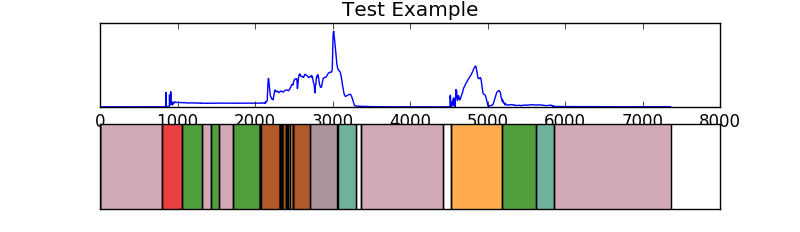
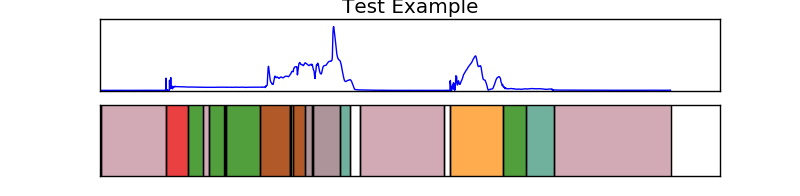
fixed the title

diff --git a/example.py b/example.py
@@ -36,6 +36,7 @@ if __name__ == "__main__":
         ax = plt.subplot(16, 1, 2 * ii + 1)
         plt.plot(training_data[ii].signal_bundle.signals[0])
         ax.get_yaxis().set_visible(False)
+        ax.get_xaxis().set_visible(False)
         plt.subplot(16, 1, 2 * ii + 2)
         plotResult_colorbars(training_data[ii].labels, range(len(training_data[ii].labels)))
 
@@ -45,7 +46,7 @@ if __name__ == "__main__":
     plt.title("Test Example")
     plt.plot(testing_data[0].signal_bundle.signals[0])
     ax.get_yaxis().set_visible(False)
-
+    ax.get_xaxis().set_visible(False)
     plt.subplot(2, 1, 2)
     plotResult_colorbars(labels, range(len(labels)))
 

diff --git a/README.md b/README.md
@@ -1,7 +1,8 @@
-# Recognizing Events and Signal Shapes in Time Domain Signals
+# Recognizing Events and Patterns in Signals
 This python library allows detecting patterns in *n-dimensional
-time domain signals*
-along the *time domain axis*.
+time domain signals*.
+
+Colors represent different labels over time.
 
 ![Training Data](https://github.com/gsubramani/SignalRecognition/blob/master/training_data_fig.png "Training Data")
 
